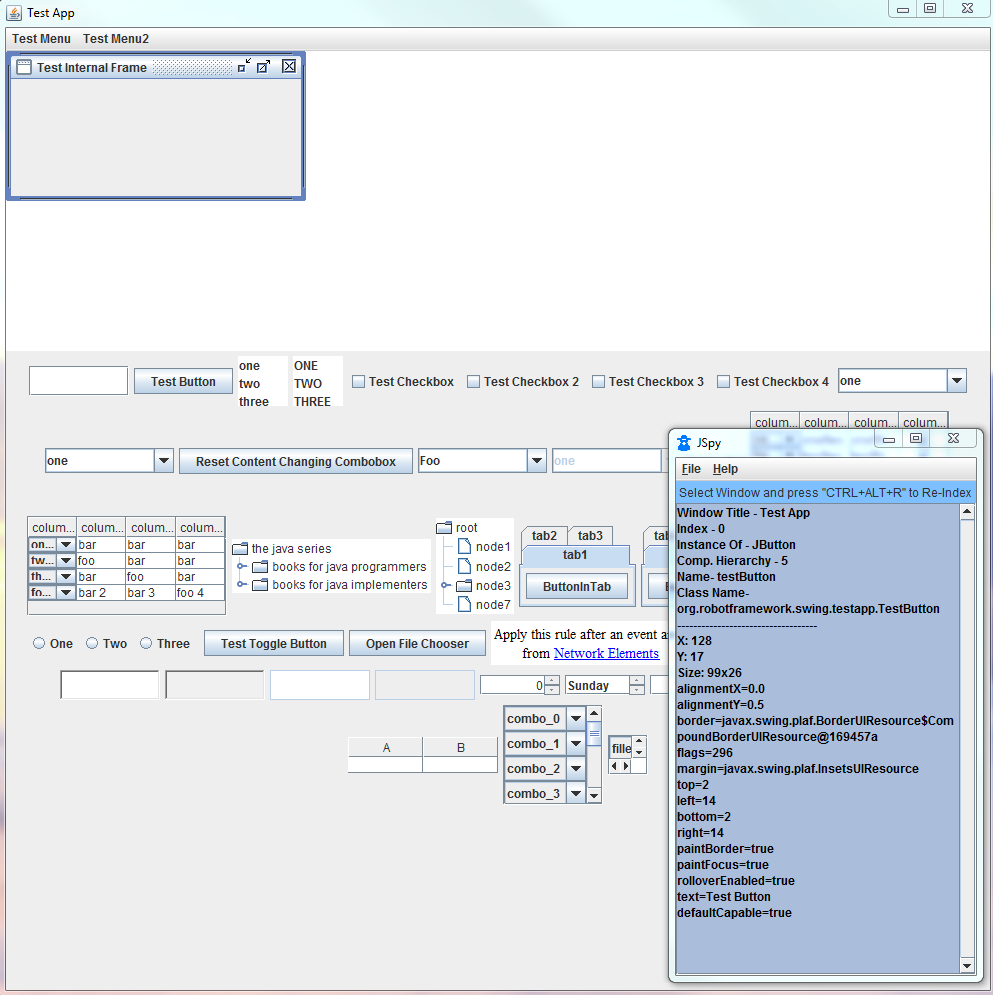
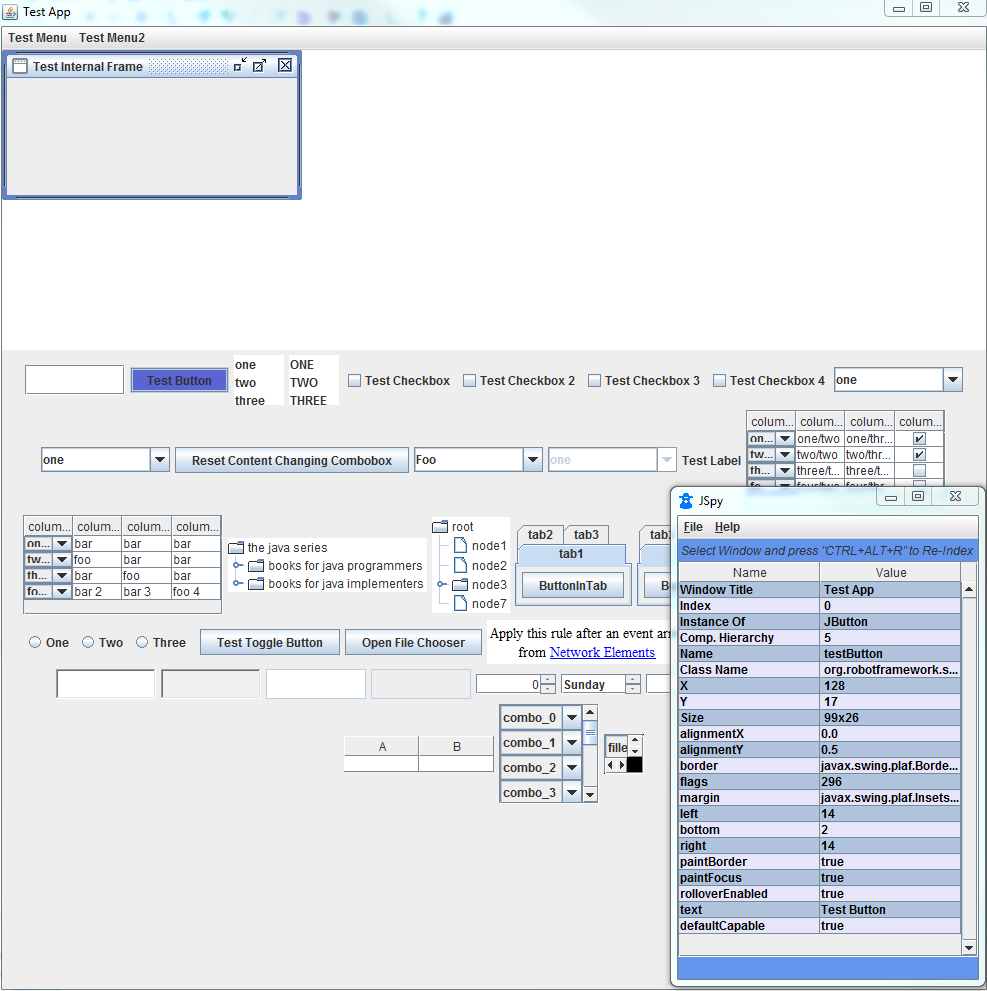
Display table #10 (#11)
* table object added, but not used

* displaying properties into table

* different colors for table rows

* added a new text pane

* minor apperance changes

* updated the screenshot

* code rearranging

* cleaning the code

diff --git a/src/spyGui/SpyGuiPane.java b/src/spyGui/SpyGuiPane.java
@@ -8,53 +8,101 @@ package spyGui;
 
 import javax.swing.*;
 import java.awt.*;
-
+import javax.swing.table.*;
 
 public class SpyGuiPane extends JPanel {
 
     private static final long serialVersionUID = 1L;
 
-    public static JTextArea textArea;
     public static JScrollPane scrollPane;
-    public static JTextPane textPane = new JTextPane();
+    public static JTextPane topTextPane = new JTextPane();
+    public static JTextPane bottomTextPane = new JTextPane();
+    public static JTable table;
+    private static DefaultTableModel tableModel;
 
     public SpyGuiPane() {
 
         setLayout(new BorderLayout());
+        Color backgroundColor = new Color(100, 149, 237);
 
-        textPane.setText("Launch example-File->Launch->javaws some.jnlp");
-        textPane.setBackground(new Color(126, 192, 255));
-        textPane.setEditable(false);
-        textArea = new JTextArea("JSpy Initialized...", 25, 25);
+        topTextPane.setText("Launch example-File->Launch->javaws some.jnlp");
+        topTextPane.setBackground(backgroundColor);
+        topTextPane.setEditable(false);
 
-        scrollPane = new JScrollPane(textArea);
+        bottomTextPane.setText("JSpy Initialized...");
+        bottomTextPane.setBackground(backgroundColor);
+        bottomTextPane.setEditable(false);
+
+        tableModel = new DefaultTableModel() {
+            @Override
+            public boolean isCellEditable(int row, int column) {
+                return false;
+            }
+        };
+        tableModel.addColumn("Name");
+        tableModel.addColumn("Value");
+
+        Color evenRowsColor = new Color(176, 196, 222);
+        Color oddRowsColor = new Color(230, 230, 250);
+        table = new JTable() {
+            @Override
+            public Component prepareRenderer(TableCellRenderer renderer, int row, int column) {
+                Component c = super.prepareRenderer(renderer, row, column);
+                c.setBackground(row % 2 == 0 ? evenRowsColor : oddRowsColor);
+                return c;
+            }
+        };
+
+        scrollPane = new JScrollPane();
+        scrollPane.getViewport().add(table);
         scrollPane.setVerticalScrollBarPolicy(
                 JScrollPane.VERTICAL_SCROLLBAR_ALWAYS);
         scrollPane.setPreferredSize(new Dimension(300, 440));
 
-        Font font = new Font("Ariel", Font.BOLD, 12);
-        textArea.setFont(font);
+        Font dataFont = new Font("Ariel", Font.BOLD, 12);
+        table.setFont(dataFont);
+
+        Font textFont = new Font("Ariel", Font.ITALIC, 12);
+        topTextPane.setFont(textFont);
+        bottomTextPane.setFont(textFont);
+
         setPreferredSize(new Dimension(300, 440));
         Color color = Color.BLACK;
 
-        textArea.setForeground(color);
-        textArea.setBackground(new Color(170, 190, 220));
-        textArea.setAutoscrolls(true);
-        textArea.setLineWrap(true);
-        textArea.setWrapStyleWord(true);
+        table.setForeground(color);
+        table.setAutoscrolls(true);
 
         //scrollPane
-        this.add(textPane, BorderLayout.NORTH);
+        this.add(topTextPane, BorderLayout.NORTH);
+        this.add(bottomTextPane, BorderLayout.SOUTH);
         this.add(scrollPane, BorderLayout.CENTER);
+
+    }
+
+    private static boolean isProperty(String s){
+        if (s.contains("=") || s.contains(":") || s.contains("-")){
+            return true;
+        }
+        return false;
     }
 
     public static void printText(String s) {
         if (s.equals("Clear")) {
-            textArea.setText("");
+            bottomTextPane.setText("");
+            tableModel.setRowCount(0);
+        } else if (s.contains("Client Disconnected.")) {
+            tableModel.setRowCount(0);
+            bottomTextPane.setText(s);
+        } else if (isProperty(s)) {
+            String name_value[] = s.split("[=:-]");
+            tableModel.addRow(name_value);
         } else {
-            textArea.append(s);
+            String splitText[] = s.split("\n");
+            bottomTextPane.setText(splitText[0]);
         }
+
         scrollPane.validate();
+        table.setModel(tableModel);
     }
 
 }

diff --git a/src/spyGui/SpyClientReader.java b/src/spyGui/SpyClientReader.java
@@ -24,7 +24,7 @@ public class SpyClientReader implements Runnable {
         try {
             BufferedWriter out = new BufferedWriter(new OutputStreamWriter(client.getOutputStream()));
             out.write("connected\n");
-            SpyGuiPane.textPane.setText("Select Window and press \"CTRL+ALT+R\" to Re-Index");
+            SpyGuiPane.topTextPane.setText("Select Window and press \"CTRL+ALT+R\" to Re-Index");
             out.flush();
             BufferedReader in;
             InputStreamReader inStream = new InputStreamReader(client.getInputStream());
@@ -44,15 +44,14 @@ public class SpyClientReader implements Runnable {
                                 int index = splitText[4].indexOf("[");
                                 String className = splitText[4].substring(0, index + 1).replace("[", "");
                                 String name = splitText[4].substring(index + 1, splitText[4].length());
-                                SpyGuiPane.printText("Name- " + name + "\n");
-                                SpyGuiPane.printText("Class Name- " + className + "\n");
-                                SpyGuiPane.printText("-----------------------------------\n");
+                                SpyGuiPane.printText("Name- " + name);
+                                SpyGuiPane.printText("Class Name- " + className);
                             } else if (i == 5) {
-                                SpyGuiPane.printText("X: " + splitText[5] + "\n");
+                                SpyGuiPane.printText("X: " + splitText[5]);
                             } else if (i == 6) {
-                                SpyGuiPane.printText("Y: " + splitText[6] + "\n");
+                                SpyGuiPane.printText("Y: " + splitText[6]);
                             } else if (i == 7) {
-                                SpyGuiPane.printText("Size: " + splitText[7] + "\n");
+                                SpyGuiPane.printText("Size: " + splitText[7]);
                             } else {
                                 String temp = splitText[i].replace("[", "\n");
                                 temp = temp.replace("]", "");
@@ -60,7 +59,7 @@ public class SpyClientReader implements Runnable {
                                 // empty properties end with "="
                                 String tempLastCharacter = temp.substring(temp.length() - 1, temp.length());
                                 if ((!tempLastCharacter.equals("=")))
-                                    SpyGuiPane.printText(temp + "\n");
+                                    SpyGuiPane.printText(temp );
                             }
                         }
                     }
@@ -68,7 +67,7 @@ public class SpyClientReader implements Runnable {
             }
         } catch (Exception e) {
             System.out.println("ERROR3: " + e.getMessage());
-            SpyGuiPane.printText("Client Disconnected.\n");
+            SpyGuiPane.printText("Client Disconnected.");
         }
 
     }
